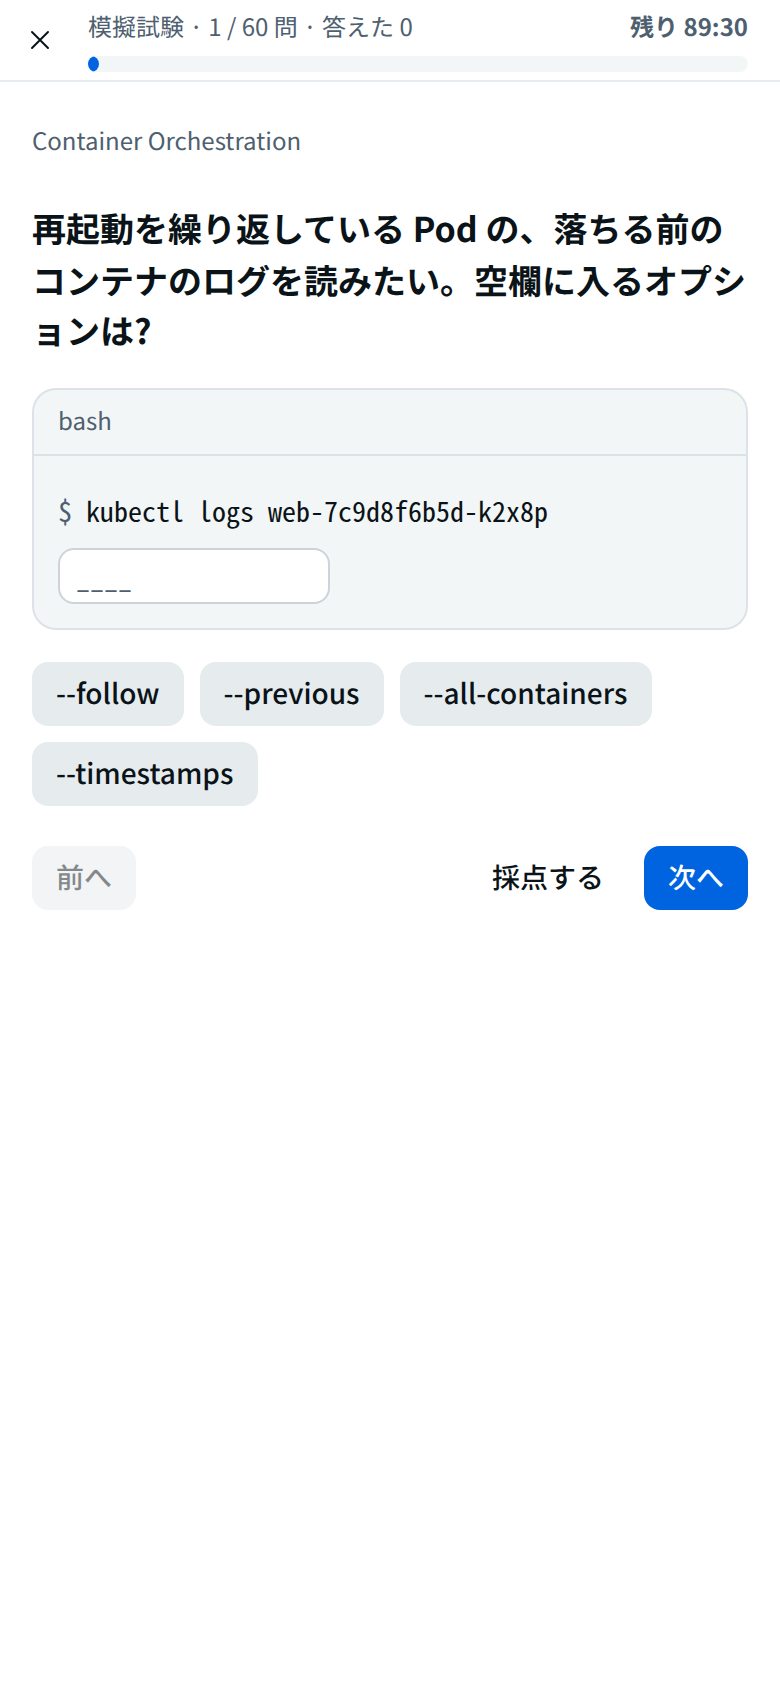
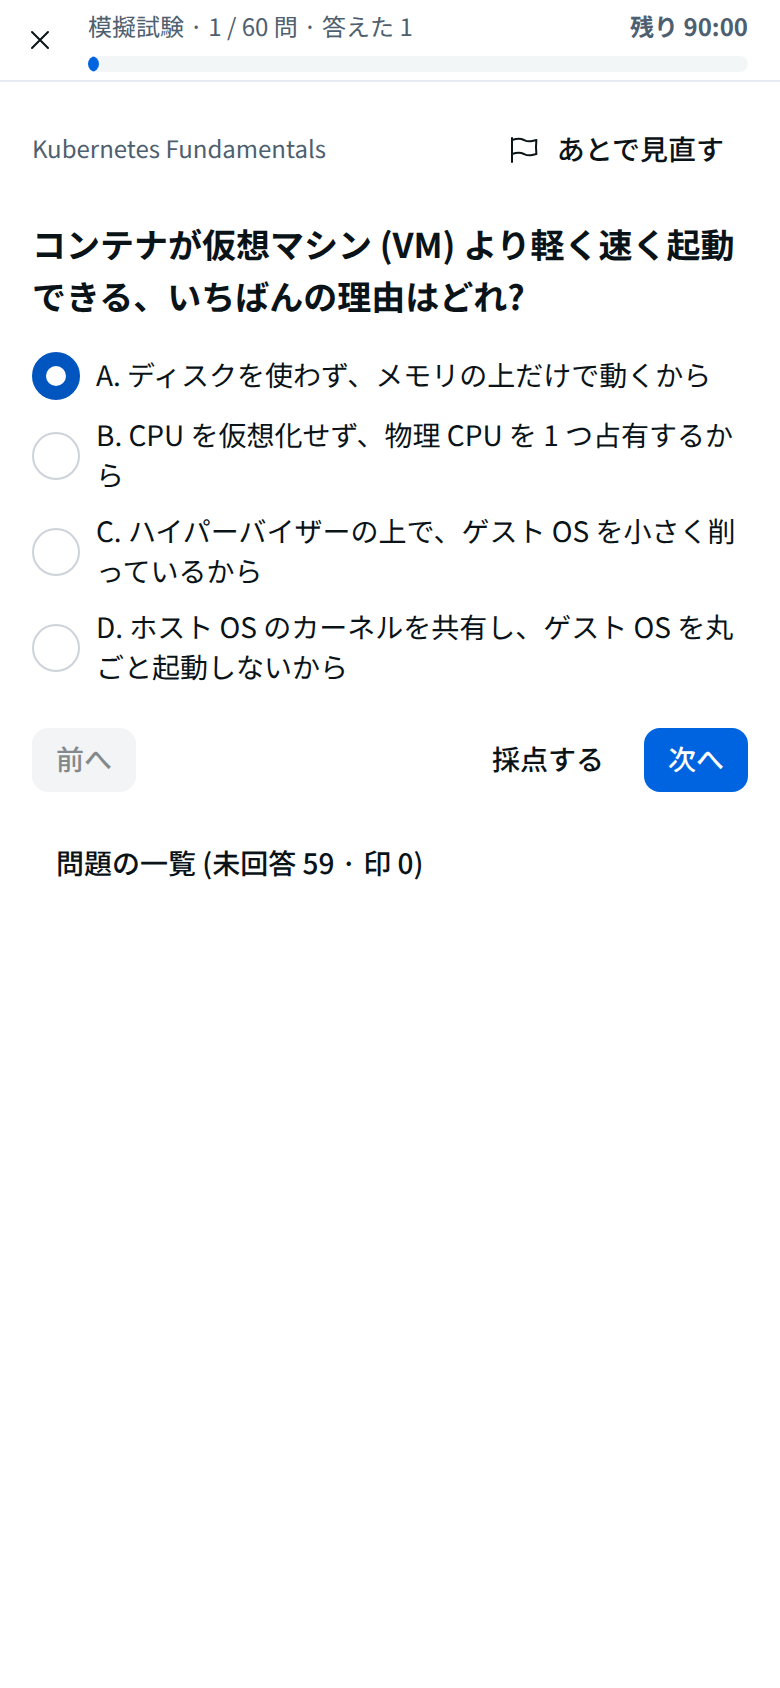
README: 画面の写しを作り直し、休みの札・到達・見直しの印・週の目標・.ics を書き足す
Refs #113

diff --git a/README.md b/README.md
@@ -37,15 +37,15 @@
   </tr>
   <tr>
     <td>復習。間違えた問題を 1・3・7 日後に出す</td>
-    <td>進捗。計画との差と、分野ごとの正答率を見る</td>
-    <td>模擬試験。4 分野の配点の割合で 60 問・90 分。途中では正誤を見せない</td>
+    <td>進捗。休みの札・計画との差・分野ごとの正答率・問題ごとの到達・学んだ日のマス・この先 14 日の復習を見る</td>
+    <td>模擬試験。4 分野の配点の割合で 60 問・90 分。途中では正誤を見せない。「あとで見直す」の印と問題の一覧がある</td>
     <td>用語集。語と説明の 1 行目の一覧を押して開く。分野で絞り、出てくるレッスンへ飛べる</td>
   </tr>
 </table>
 
 <img alt="PC のホーム: 左に週の一覧、本文にレッスンの一覧" src="docs/images/home-pc.png">
 
-設定 (目標 XP・受験日・学習の開始日・記録の書き出しと読み込み・記録を消す) は `docs/images/settings-phone.png`。
+設定 (目標 XP・週の目標・受験日・学習の開始日・学ぶ予定の .ics・記録の書き出しと読み込み・記録を消す) は `docs/images/settings-phone.png`。
 
 ## 全体の作り
 
